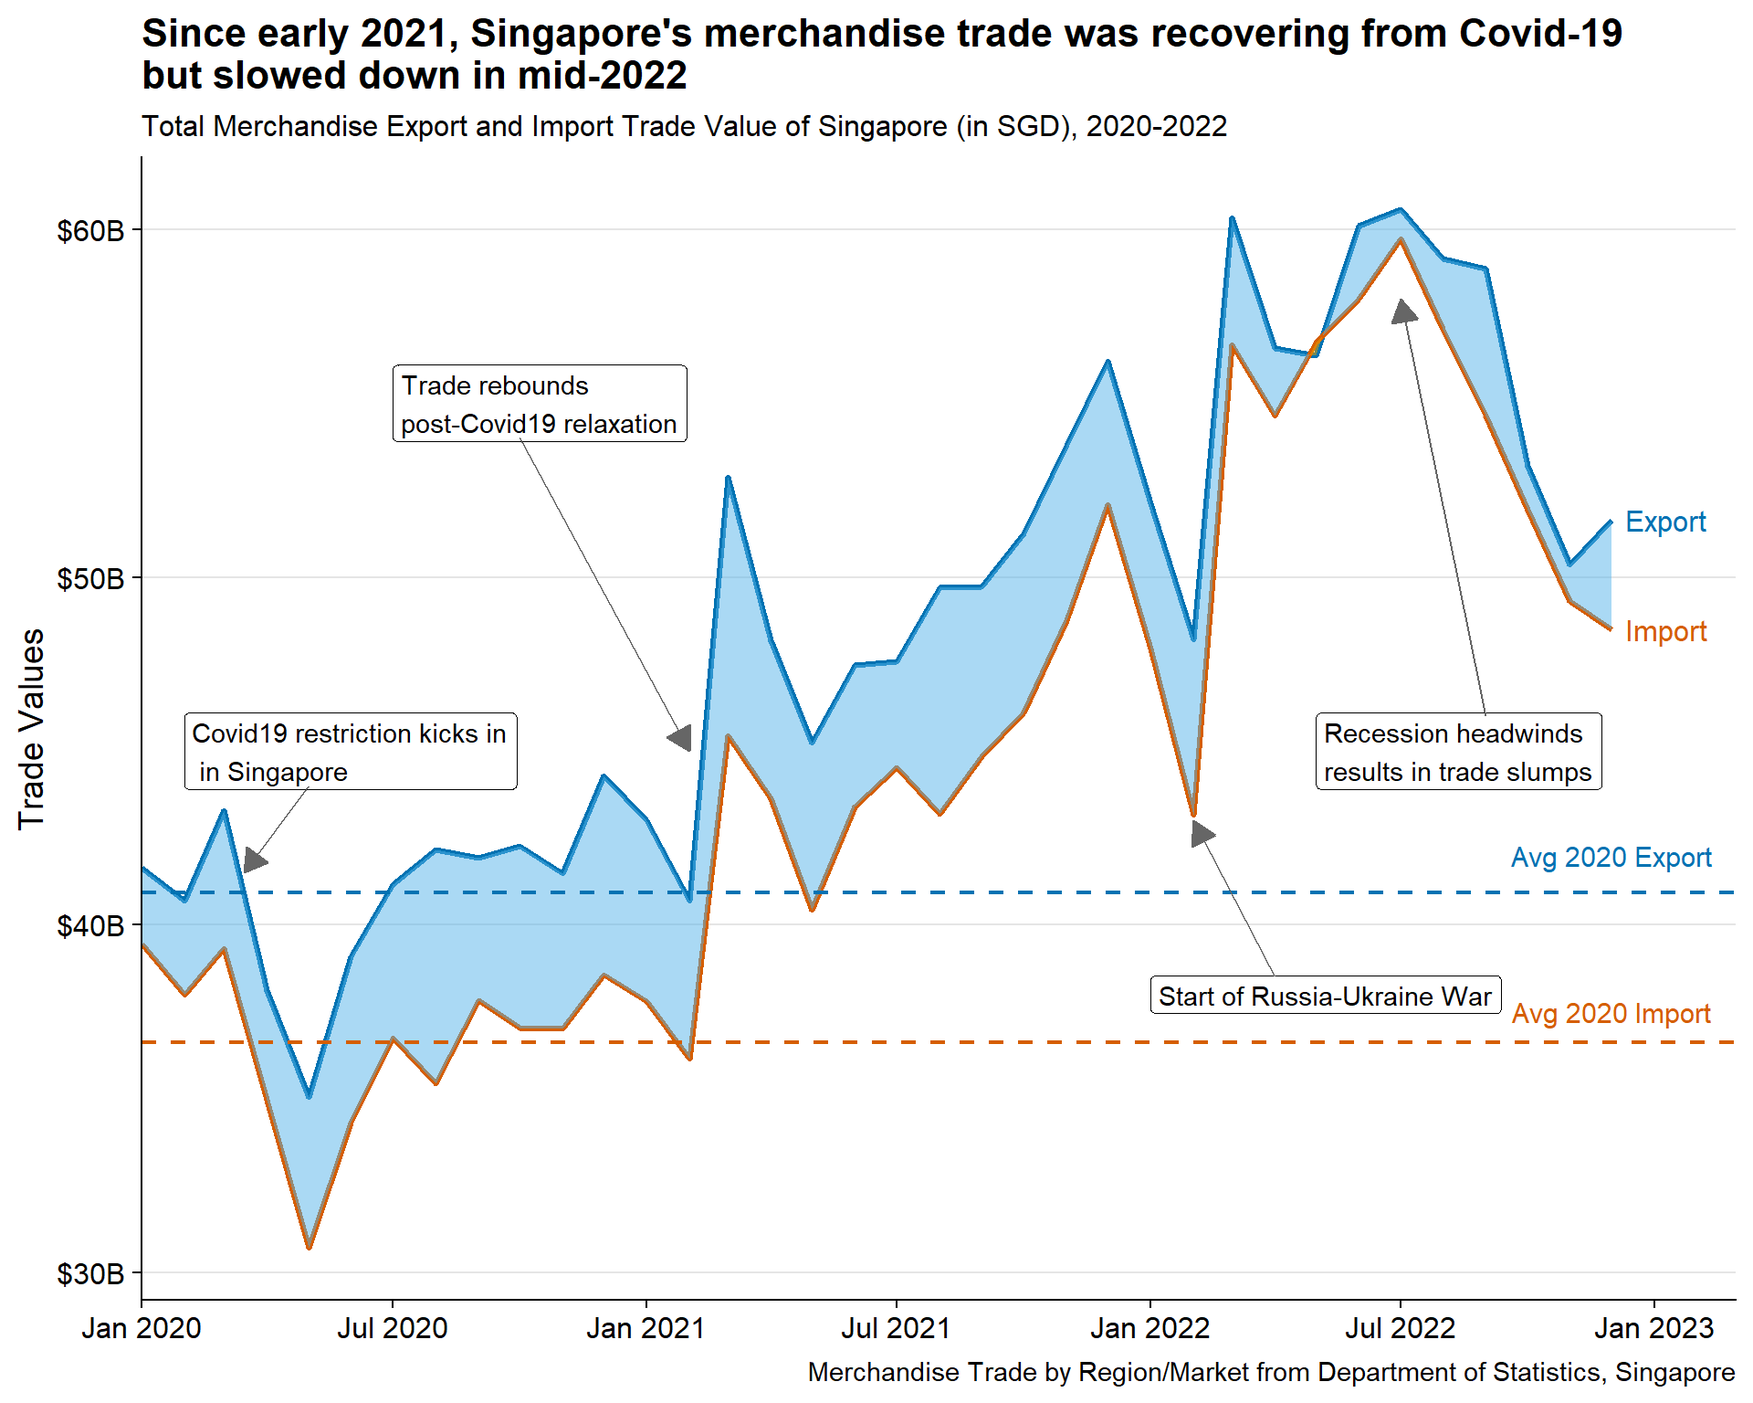
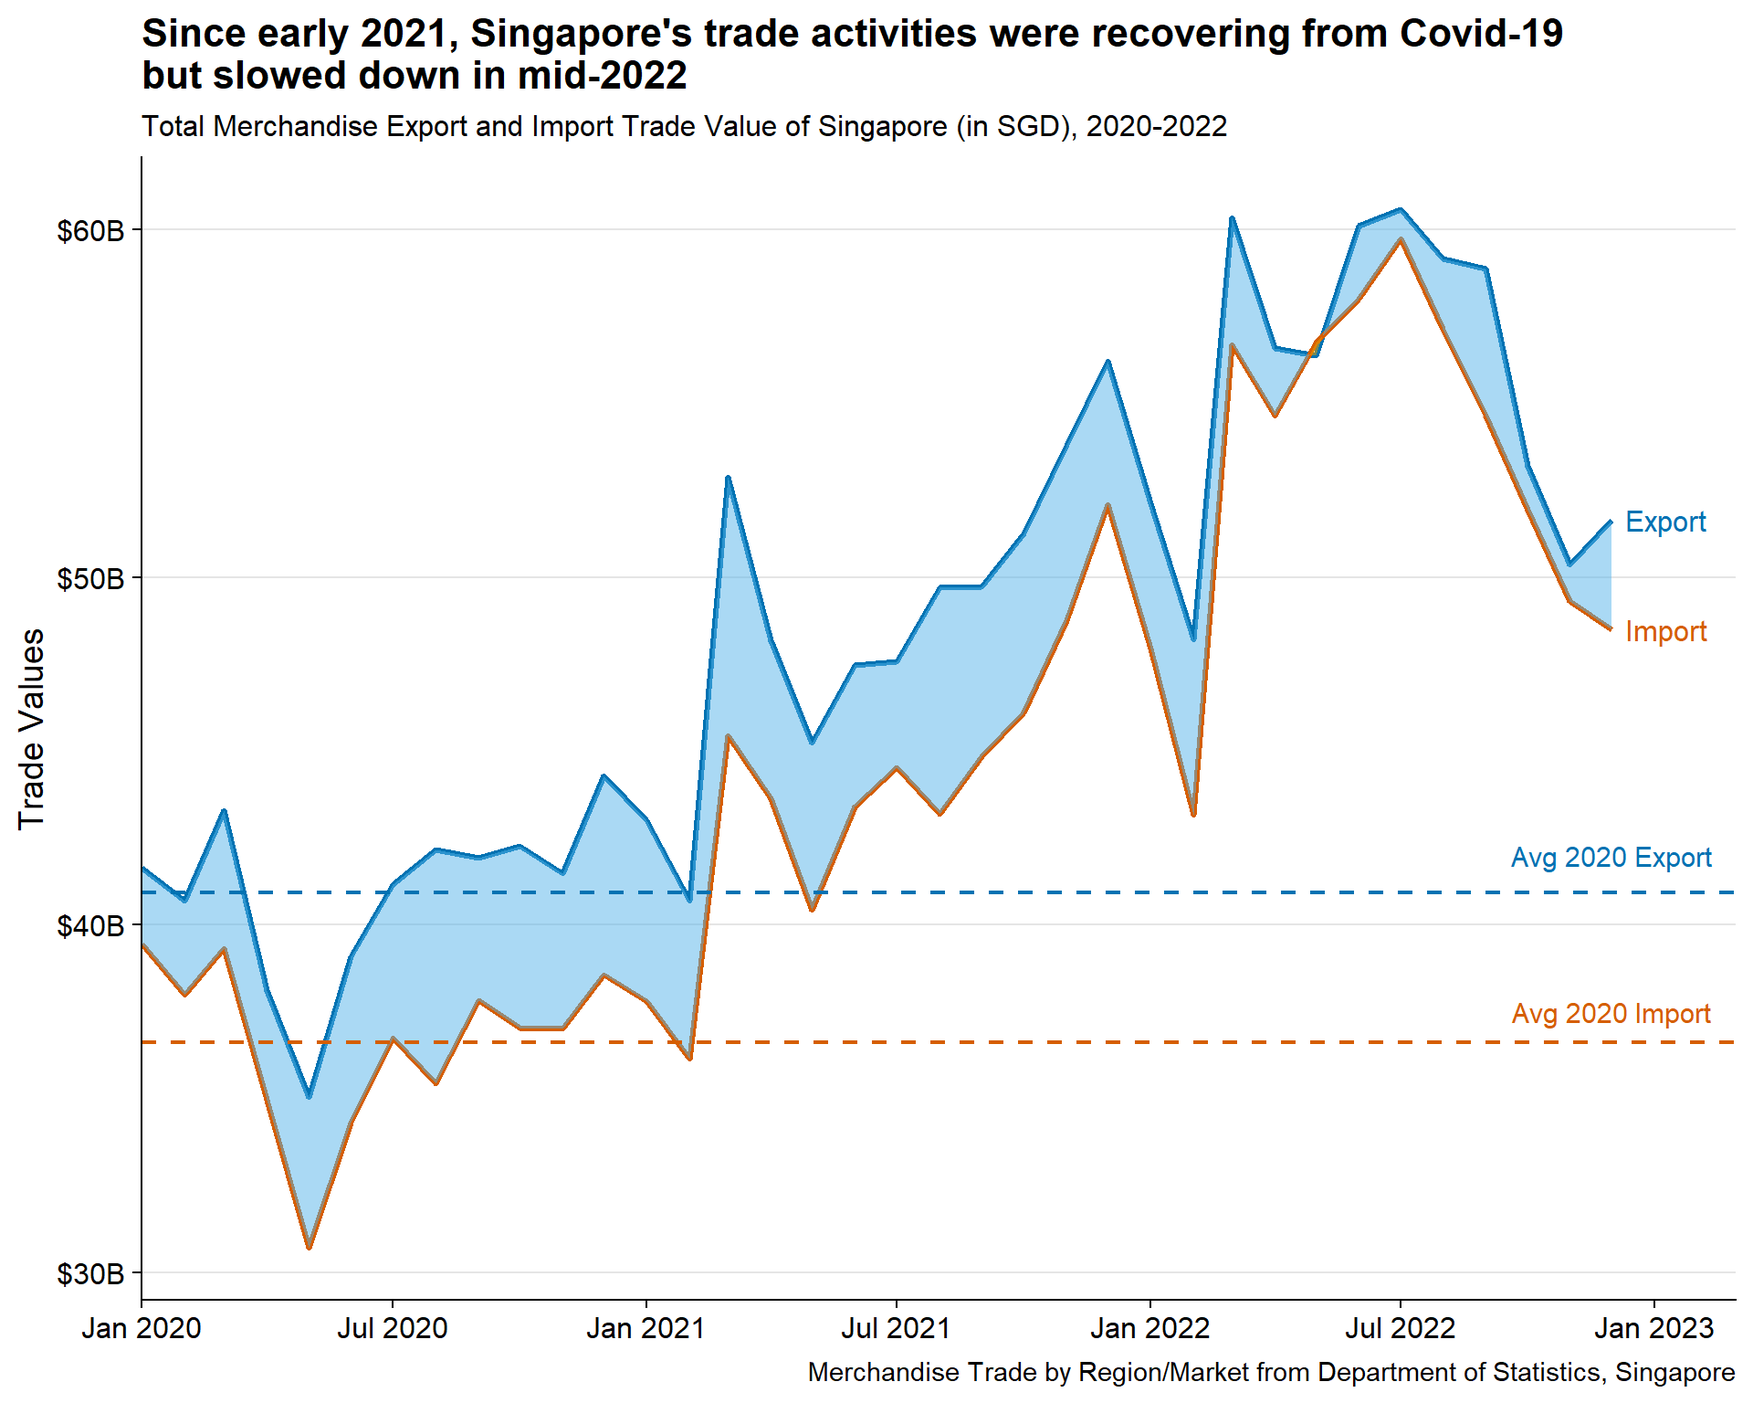
Commit after Take-home Exercise 4 draft 4

diff --git a/_site/Take-home_Ex/Take-home_Ex04/Take-home_Ex04.html b/_site/Take-home_Ex/Take-home_Ex04/Take-home_Ex04.html
@@ -306,6 +306,7 @@ code span.wa { color: #60a0b0; font-weight: bold; font-style: italic; } /* Warni
   <ul class="collapse">
   <li><a href="#design-consideration" id="toc-design-consideration" class="nav-link" data-scroll-target="#design-consideration">3.1.1.1 Design Consideration</a></li>
   <li><a href="#preparation-of-visualisation" id="toc-preparation-of-visualisation" class="nav-link" data-scroll-target="#preparation-of-visualisation">3.1.1.2 Preparation of visualisation</a></li>
+  <li><a href="#insights" id="toc-insights" class="nav-link" data-scroll-target="#insights">3.1.1.3 Insights</a></li>
   </ul></li>
   <li><a href="#horizon-plots" id="toc-horizon-plots" class="nav-link" data-scroll-target="#horizon-plots">3.1.2 Horizon Plots</a></li>
   </ul></li>
@@ -1325,6 +1326,7 @@ Tip
 <li><p>Display the values in Billions SGD rather than the raw values</p></li>
 <li><p>Using arrows to aid annotations</p></li>
 <li><p>Clear intent in title, highlighting the story</p></li>
+<li><p>Label the lines instead of using legend</p></li>
 </ul>
 </div>
 </div>
@@ -1364,11 +1366,46 @@ This is created by grouping <strong><em>sgtrade_cln</em></strong> data by <stron
 </section>
 <section id="plotting-the-main-graph" class="level6">
 <h6 class="anchored" data-anchor-id="plotting-the-main-graph"><u>Plotting the main graph</u></h6>
-<p>Three tibbles are created</p>
+<p>Steps used to create the plots:</p>
+<ul>
+<li><p>Base plot is created using ggplot2::geom_line and ggbraid::geom_braid</p>
+<div class="callout-note callout callout-style-default callout-captioned">
+<div class="callout-header d-flex align-content-center">
+<div class="callout-icon-container">
+<i class="callout-icon"></i>
+</div>
+<div class="callout-caption-container flex-fill">
+Note
+</div>
+</div>
+<div class="callout-body-container callout-body">
+<p>Note that <strong><em>totalsgtrade_long</em></strong> is used in <code>geom_line</code> to allow grouping the <strong>Type</strong> (Import or Export) by color and <strong><em>totalsgtrade</em></strong> is used in <code>geom_braid</code>. The <code>fill</code> argument of <code>geom_braid</code> is specified as <code>Import&lt;Export</code> as Trade Surplus happens when Import &lt; Export, and <code>alpha</code> specified as 0.5 to provide a degree of opacity.</p>
+</div>
+</div></li>
+<li><p>Remove the legend using <code>ggplot2::guides()</code> and add the labels at the end of each line using <code>directlabels:geom_dl()</code>. Note the <code>method</code> argument specifies gap between the label and the line</p></li>
+<li><p>Plotting the reference line using <code>ggplot2::geom_hline</code>. The <code>linetype</code> argument is specified as <code>"dashed"</code> to create dashed reference line. Add text on each reference line to indicate “Average 2020” using <code>ggplot2::annotate()</code></p></li>
+<li><p>Set the colors of the line and ribbons using <code>scale_color_manual()</code> and <code>scale_color_fill()</code></p>
+<div class="callout-tip callout callout-style-default callout-captioned">
+<div class="callout-header d-flex align-content-center">
+<div class="callout-icon-container">
+<i class="callout-icon"></i>
+</div>
+<div class="callout-caption-container flex-fill">
+Tip
+</div>
+</div>
+<div class="callout-body-container callout-body">
+<p>The color choice is based on this <a href="https://davidmathlogic.com/colorblind/#%23D81B60-%231E88E5-%23FFC107-%23004D40">article</a></p>
+</div>
+</div></li>
+<li><p>As the x-axis is datetime, <code>scale_x_date()</code> needs to be used, indicating the <code>limits</code> of plots, <code>date_breaks</code>, and <code>date_labels</code> format. It is good to set the limit on the first time frame (January 2020) to remove gap on the left-hand side of the graph, hence <code>expand</code> argument is specified as c(0,0)</p></li>
+<li><p>In order to convert the y-axis in terms of Billions SGD, we need to specify it in the <code>labels</code> argument of <code>scale_y_continuous</code></p></li>
+<li><p>Set the theme and add titles, subtitles, and captions using <code>theme()</code> and <code>labs()</code> functions</p></li>
+</ul>
 <div class="cell">
 <details>
 <summary>Show the code</summary>
-<div class="sourceCode cell-code" id="cb18"><pre class="sourceCode r code-with-copy"><code class="sourceCode r"><span id="cb18-1"><a href="#cb18-1" aria-hidden="true" tabindex="-1"></a><span class="co">#Plotting the main plot</span></span>
+<div class="sourceCode cell-code" id="cb18"><pre class="sourceCode r code-with-copy"><code class="sourceCode r"><span id="cb18-1"><a href="#cb18-1" aria-hidden="true" tabindex="-1"></a><span class="co">#Plotting the base plot</span></span>
 <span id="cb18-2"><a href="#cb18-2" aria-hidden="true" tabindex="-1"></a>br_plot <span class="ot">&lt;-</span> <span class="fu">ggplot</span>() <span class="sc">+</span></span>
 <span id="cb18-3"><a href="#cb18-3" aria-hidden="true" tabindex="-1"></a>  <span class="fu">geom_line</span>(<span class="at">data =</span> totalsgtrade_long,</span>
 <span id="cb18-4"><a href="#cb18-4" aria-hidden="true" tabindex="-1"></a>            <span class="fu">aes</span>(<span class="at">x =</span> Month_Year,</span>
@@ -1415,7 +1452,7 @@ This is created by grouping <strong><em>sgtrade_cln</em></strong> data by <stron
 <span id="cb18-45"><a href="#cb18-45" aria-hidden="true" tabindex="-1"></a>           <span class="at">size=</span><span class="dv">4</span>, </span>
 <span id="cb18-46"><a href="#cb18-46" aria-hidden="true" tabindex="-1"></a>           <span class="at">color=</span><span class="st">"#0072B2"</span>) <span class="sc">+</span></span>
 <span id="cb18-47"><a href="#cb18-47" aria-hidden="true" tabindex="-1"></a>  </span>
-<span id="cb18-48"><a href="#cb18-48" aria-hidden="true" tabindex="-1"></a>    <span class="fu">geom_hline</span>(<span class="fu">aes</span>(<span class="at">yintercept =</span> avg_total_2020<span class="sc">$</span>import), </span>
+<span id="cb18-48"><a href="#cb18-48" aria-hidden="true" tabindex="-1"></a>  <span class="fu">geom_hline</span>(<span class="fu">aes</span>(<span class="at">yintercept =</span> avg_total_2020<span class="sc">$</span>import), </span>
 <span id="cb18-49"><a href="#cb18-49" aria-hidden="true" tabindex="-1"></a>             <span class="at">col=</span><span class="st">"#D55E00"</span>, </span>
 <span id="cb18-50"><a href="#cb18-50" aria-hidden="true" tabindex="-1"></a>             <span class="at">linewidth=</span><span class="fl">0.8</span>,</span>
 <span id="cb18-51"><a href="#cb18-51" aria-hidden="true" tabindex="-1"></a>             <span class="at">linetype =</span> <span class="st">"dashed"</span>) <span class="sc">+</span></span>
@@ -1455,9 +1492,27 @@ This is created by grouping <strong><em>sgtrade_cln</em></strong> data by <stron
 <span id="cb18-85"><a href="#cb18-85" aria-hidden="true" tabindex="-1"></a><span class="co">#Adding title, subtitle, and captions   </span></span>
 <span id="cb18-86"><a href="#cb18-86" aria-hidden="true" tabindex="-1"></a>  <span class="fu">labs</span>(<span class="at">title =</span> <span class="st">"Since early 2021, Singapore's trade activities were recovering from Covid-19</span><span class="sc">\n</span><span class="st">but slowed down in mid-2022"</span>,</span>
 <span id="cb18-87"><a href="#cb18-87" aria-hidden="true" tabindex="-1"></a>         <span class="at">subtitle =</span> <span class="st">"Total Merchandise Export and Import Trade Value of Singapore (in SGD), 2020-2022"</span>,</span>
-<span id="cb18-88"><a href="#cb18-88" aria-hidden="true" tabindex="-1"></a>         <span class="at">caption =</span> <span class="st">"Merchandise Trade by Region/Market from Department of Statistics, Singapore"</span>)</span></code><button title="Copy to Clipboard" class="code-copy-button"><i class="bi"></i></button></pre></div>
+<span id="cb18-88"><a href="#cb18-88" aria-hidden="true" tabindex="-1"></a>         <span class="at">caption =</span> <span class="st">"Merchandise Trade by Region/Market from Department of Statistics, Singapore"</span>)</span>
+<span id="cb18-89"><a href="#cb18-89" aria-hidden="true" tabindex="-1"></a></span>
+<span id="cb18-90"><a href="#cb18-90" aria-hidden="true" tabindex="-1"></a>br_plot</span></code><button title="Copy to Clipboard" class="code-copy-button"><i class="bi"></i></button></pre></div>
 </details>
+<div class="cell-output-display">
+<p><img src="Take-home_Ex04_files/figure-html/Overall Singapore Trade Balance-1.png" class="img-fluid" width="960"></p>
 </div>
+</div>
+</section>
+</section>
+<section id="insights" class="level5">
+<h5 class="anchored" data-anchor-id="insights">3.1.1.3 Insights</h5>
+<ul>
+<li><p>Overall, Singapore maintains trade surplus throughout the duration, except for brief period in May 2022</p></li>
+<li><p>In March 2020, both Singapore import and export fell further, coinciding with announcement of further Covid-19 restrictions (i.e., circuit breaker)</p></li>
+<li><p>With gradual reopening of economy (i.e., Phase 3 reopening) in Dec 2020 to February 2021, trade seems to rebound back above the 2020 average. Throughout 2021, both import and export continues to rise</p></li>
+<li><p>Sudden dip observed around February 2022, coinciding with the start of Russia-Ukraine War</p></li>
+<li><p>Trade surplus seems to be thinning in 2022, but activities remain high, reaching its peak in August/September 2022</p></li>
+<li><p>Gradual decline of trade happens after the 3-year peak marking recession headwinds post Q3 2022</p></li>
+</ul>
+<p>With such insights observed above, it makes sense to include them in the plot as well. Hence <code>annotate()</code> functions are used to add the text label and arrows. Refer to code below for more details.</p>
 <div class="cell">
 <details>
 <summary>Show the code</summary>
@@ -1499,7 +1554,7 @@ This is created by grouping <strong><em>sgtrade_cln</em></strong> data by <stron
 <span id="cb19-36"><a href="#cb19-36" aria-hidden="true" tabindex="-1"></a>           ) <span class="sc">+</span></span>
 <span id="cb19-37"><a href="#cb19-37" aria-hidden="true" tabindex="-1"></a>  </span>
 <span id="cb19-38"><a href="#cb19-38" aria-hidden="true" tabindex="-1"></a>  <span class="fu">annotate</span>(<span class="at">geom =</span> <span class="st">"label"</span>,</span>
-<span id="cb19-39"><a href="#cb19-39" aria-hidden="true" tabindex="-1"></a>           <span class="at">x =</span> <span class="fu">as.Date</span>(<span class="st">"2022-01-01"</span>),</span>
+<span id="cb19-39"><a href="#cb19-39" aria-hidden="true" tabindex="-1"></a>           <span class="at">x =</span> <span class="fu">as.Date</span>(<span class="st">"2021-12-01"</span>),</span>
 <span id="cb19-40"><a href="#cb19-40" aria-hidden="true" tabindex="-1"></a>           <span class="at">y =</span> <span class="dv">38000000000</span>,</span>
 <span id="cb19-41"><a href="#cb19-41" aria-hidden="true" tabindex="-1"></a>           <span class="at">label =</span> <span class="st">"Start of Russia-Ukraine War"</span>,</span>
 <span id="cb19-42"><a href="#cb19-42" aria-hidden="true" tabindex="-1"></a>           <span class="at">hjust =</span> <span class="st">"left"</span>,</span>
@@ -1517,28 +1572,45 @@ This is created by grouping <strong><em>sgtrade_cln</em></strong> data by <stron
 <span id="cb19-54"><a href="#cb19-54" aria-hidden="true" tabindex="-1"></a>           ) <span class="sc">+</span></span>
 <span id="cb19-55"><a href="#cb19-55" aria-hidden="true" tabindex="-1"></a>  </span>
 <span id="cb19-56"><a href="#cb19-56" aria-hidden="true" tabindex="-1"></a>  <span class="fu">annotate</span>(<span class="at">geom =</span> <span class="st">"label"</span>,</span>
-<span id="cb19-57"><a href="#cb19-57" aria-hidden="true" tabindex="-1"></a>           <span class="at">x =</span> <span class="fu">as.Date</span>(<span class="st">"2022-05-01"</span>),</span>
-<span id="cb19-58"><a href="#cb19-58" aria-hidden="true" tabindex="-1"></a>           <span class="at">y =</span> <span class="dv">45000000000</span>,</span>
-<span id="cb19-59"><a href="#cb19-59" aria-hidden="true" tabindex="-1"></a>           <span class="at">label =</span> <span class="st">"Recession headwinds</span><span class="sc">\n</span><span class="st">results in trade slumps"</span>,</span>
+<span id="cb19-57"><a href="#cb19-57" aria-hidden="true" tabindex="-1"></a>           <span class="at">x =</span> <span class="fu">as.Date</span>(<span class="st">"2021-08-01"</span>),</span>
+<span id="cb19-58"><a href="#cb19-58" aria-hidden="true" tabindex="-1"></a>           <span class="at">y =</span> <span class="dv">58000000000</span>,</span>
+<span id="cb19-59"><a href="#cb19-59" aria-hidden="true" tabindex="-1"></a>           <span class="at">label =</span> <span class="st">"3-Year High</span><span class="sc">\n</span><span class="st">Trade Activities"</span>,</span>
 <span id="cb19-60"><a href="#cb19-60" aria-hidden="true" tabindex="-1"></a>           <span class="at">hjust =</span> <span class="st">"left"</span>,</span>
 <span id="cb19-61"><a href="#cb19-61" aria-hidden="true" tabindex="-1"></a>           <span class="at">color =</span> <span class="st">"black"</span></span>
 <span id="cb19-62"><a href="#cb19-62" aria-hidden="true" tabindex="-1"></a>           ) <span class="sc">+</span></span>
 <span id="cb19-63"><a href="#cb19-63" aria-hidden="true" tabindex="-1"></a>  </span>
 <span id="cb19-64"><a href="#cb19-64" aria-hidden="true" tabindex="-1"></a>  <span class="fu">annotate</span>(<span class="at">geom =</span> <span class="st">"segment"</span>,</span>
-<span id="cb19-65"><a href="#cb19-65" aria-hidden="true" tabindex="-1"></a>           <span class="at">x =</span> <span class="fu">as.Date</span>(<span class="st">"2022-09-01"</span>), </span>
-<span id="cb19-66"><a href="#cb19-66" aria-hidden="true" tabindex="-1"></a>           <span class="at">y =</span> <span class="dv">46000000000</span>, </span>
-<span id="cb19-67"><a href="#cb19-67" aria-hidden="true" tabindex="-1"></a>           <span class="at">xend =</span> <span class="fu">as.Date</span>(<span class="st">"2022-07-01"</span>),  </span>
-<span id="cb19-68"><a href="#cb19-68" aria-hidden="true" tabindex="-1"></a>           <span class="at">yend =</span> <span class="dv">58000000000</span>,  </span>
+<span id="cb19-65"><a href="#cb19-65" aria-hidden="true" tabindex="-1"></a>           <span class="at">x =</span> <span class="fu">as.Date</span>(<span class="st">"2021-12-25"</span>), </span>
+<span id="cb19-66"><a href="#cb19-66" aria-hidden="true" tabindex="-1"></a>           <span class="at">y =</span> <span class="dv">58000000000</span>, </span>
+<span id="cb19-67"><a href="#cb19-67" aria-hidden="true" tabindex="-1"></a>           <span class="at">xend =</span> <span class="fu">as.Date</span>(<span class="st">"2022-06-01"</span>),  </span>
+<span id="cb19-68"><a href="#cb19-68" aria-hidden="true" tabindex="-1"></a>           <span class="at">yend =</span> <span class="dv">60000000000</span>,  </span>
 <span id="cb19-69"><a href="#cb19-69" aria-hidden="true" tabindex="-1"></a>           <span class="at">color =</span> <span class="st">"grey40"</span>,</span>
 <span id="cb19-70"><a href="#cb19-70" aria-hidden="true" tabindex="-1"></a>           <span class="at">arrow =</span> <span class="fu">arrow</span>(<span class="at">type =</span> <span class="st">"closed"</span>,</span>
 <span id="cb19-71"><a href="#cb19-71" aria-hidden="true" tabindex="-1"></a>                         <span class="at">length =</span> <span class="fu">unit</span>(<span class="fl">0.15</span>, <span class="st">"inches"</span>))</span>
-<span id="cb19-72"><a href="#cb19-72" aria-hidden="true" tabindex="-1"></a>           ) </span></code><button title="Copy to Clipboard" class="code-copy-button"><i class="bi"></i></button></pre></div>
+<span id="cb19-72"><a href="#cb19-72" aria-hidden="true" tabindex="-1"></a>           ) <span class="sc">+</span></span>
+<span id="cb19-73"><a href="#cb19-73" aria-hidden="true" tabindex="-1"></a>  </span>
+<span id="cb19-74"><a href="#cb19-74" aria-hidden="true" tabindex="-1"></a>  <span class="fu">annotate</span>(<span class="at">geom =</span> <span class="st">"label"</span>,</span>
+<span id="cb19-75"><a href="#cb19-75" aria-hidden="true" tabindex="-1"></a>           <span class="at">x =</span> <span class="fu">as.Date</span>(<span class="st">"2022-05-01"</span>),</span>
+<span id="cb19-76"><a href="#cb19-76" aria-hidden="true" tabindex="-1"></a>           <span class="at">y =</span> <span class="dv">45000000000</span>,</span>
+<span id="cb19-77"><a href="#cb19-77" aria-hidden="true" tabindex="-1"></a>           <span class="at">label =</span> <span class="st">"Recession headwinds</span><span class="sc">\n</span><span class="st">results in trade slumps"</span>,</span>
+<span id="cb19-78"><a href="#cb19-78" aria-hidden="true" tabindex="-1"></a>           <span class="at">hjust =</span> <span class="st">"left"</span>,</span>
+<span id="cb19-79"><a href="#cb19-79" aria-hidden="true" tabindex="-1"></a>           <span class="at">color =</span> <span class="st">"black"</span></span>
+<span id="cb19-80"><a href="#cb19-80" aria-hidden="true" tabindex="-1"></a>           ) <span class="sc">+</span></span>
+<span id="cb19-81"><a href="#cb19-81" aria-hidden="true" tabindex="-1"></a>  </span>
+<span id="cb19-82"><a href="#cb19-82" aria-hidden="true" tabindex="-1"></a>  <span class="fu">annotate</span>(<span class="at">geom =</span> <span class="st">"segment"</span>,</span>
+<span id="cb19-83"><a href="#cb19-83" aria-hidden="true" tabindex="-1"></a>           <span class="at">x =</span> <span class="fu">as.Date</span>(<span class="st">"2022-09-01"</span>), </span>
+<span id="cb19-84"><a href="#cb19-84" aria-hidden="true" tabindex="-1"></a>           <span class="at">y =</span> <span class="dv">46000000000</span>, </span>
+<span id="cb19-85"><a href="#cb19-85" aria-hidden="true" tabindex="-1"></a>           <span class="at">xend =</span> <span class="fu">as.Date</span>(<span class="st">"2022-08-01"</span>),  </span>
+<span id="cb19-86"><a href="#cb19-86" aria-hidden="true" tabindex="-1"></a>           <span class="at">yend =</span> <span class="dv">56000000000</span>,  </span>
+<span id="cb19-87"><a href="#cb19-87" aria-hidden="true" tabindex="-1"></a>           <span class="at">color =</span> <span class="st">"grey40"</span>,</span>
+<span id="cb19-88"><a href="#cb19-88" aria-hidden="true" tabindex="-1"></a>           <span class="at">arrow =</span> <span class="fu">arrow</span>(<span class="at">type =</span> <span class="st">"closed"</span>,</span>
+<span id="cb19-89"><a href="#cb19-89" aria-hidden="true" tabindex="-1"></a>                         <span class="at">length =</span> <span class="fu">unit</span>(<span class="fl">0.15</span>, <span class="st">"inches"</span>))</span>
+<span id="cb19-90"><a href="#cb19-90" aria-hidden="true" tabindex="-1"></a>           ) </span></code><button title="Copy to Clipboard" class="code-copy-button"><i class="bi"></i></button></pre></div>
 </details>
 <div class="cell-output-display">
 <p><img src="Take-home_Ex04_files/figure-html/Overall Singapore Trade Balance Annotations-1.png" class="img-fluid" width="960"></p>
 </div>
 </div>
-</section>
 </section>
 </section>
 <section id="horizon-plots" class="level4">
